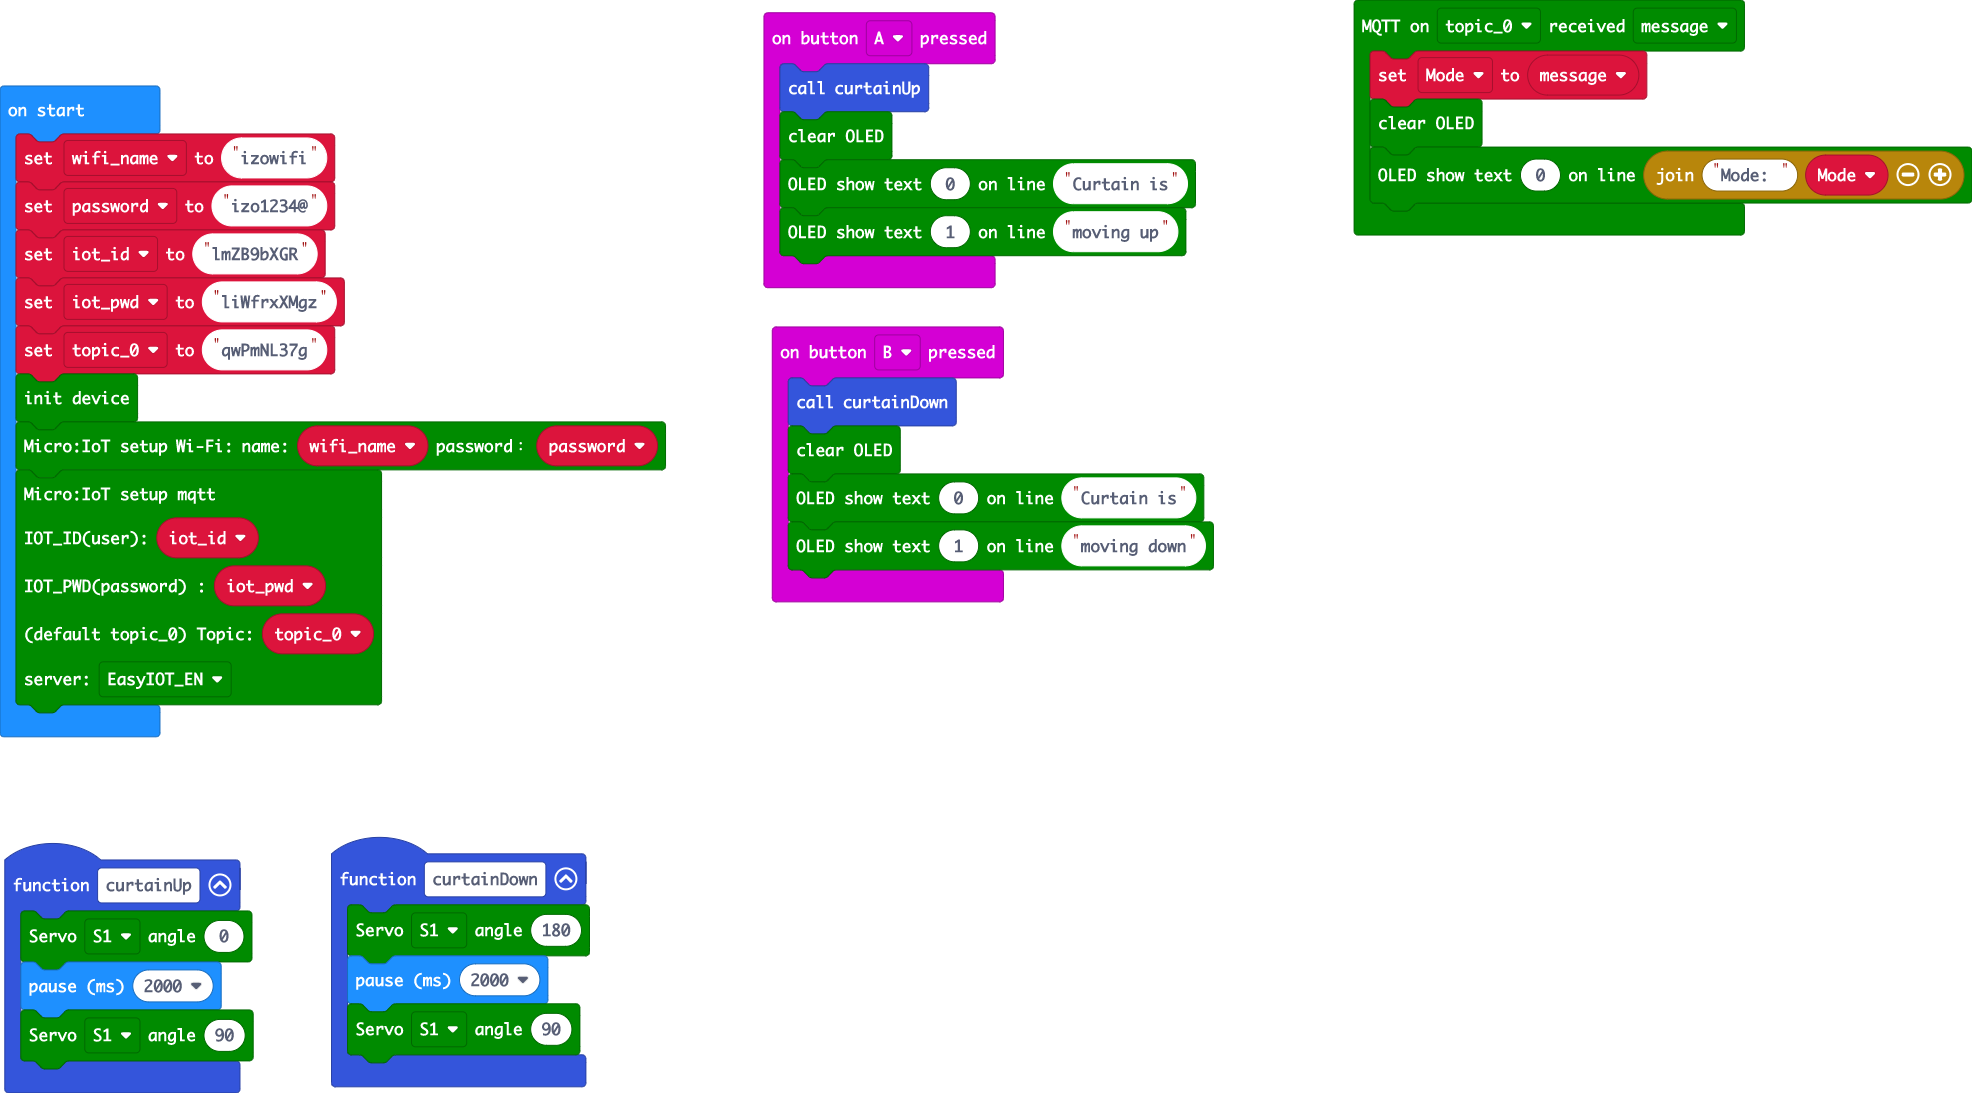
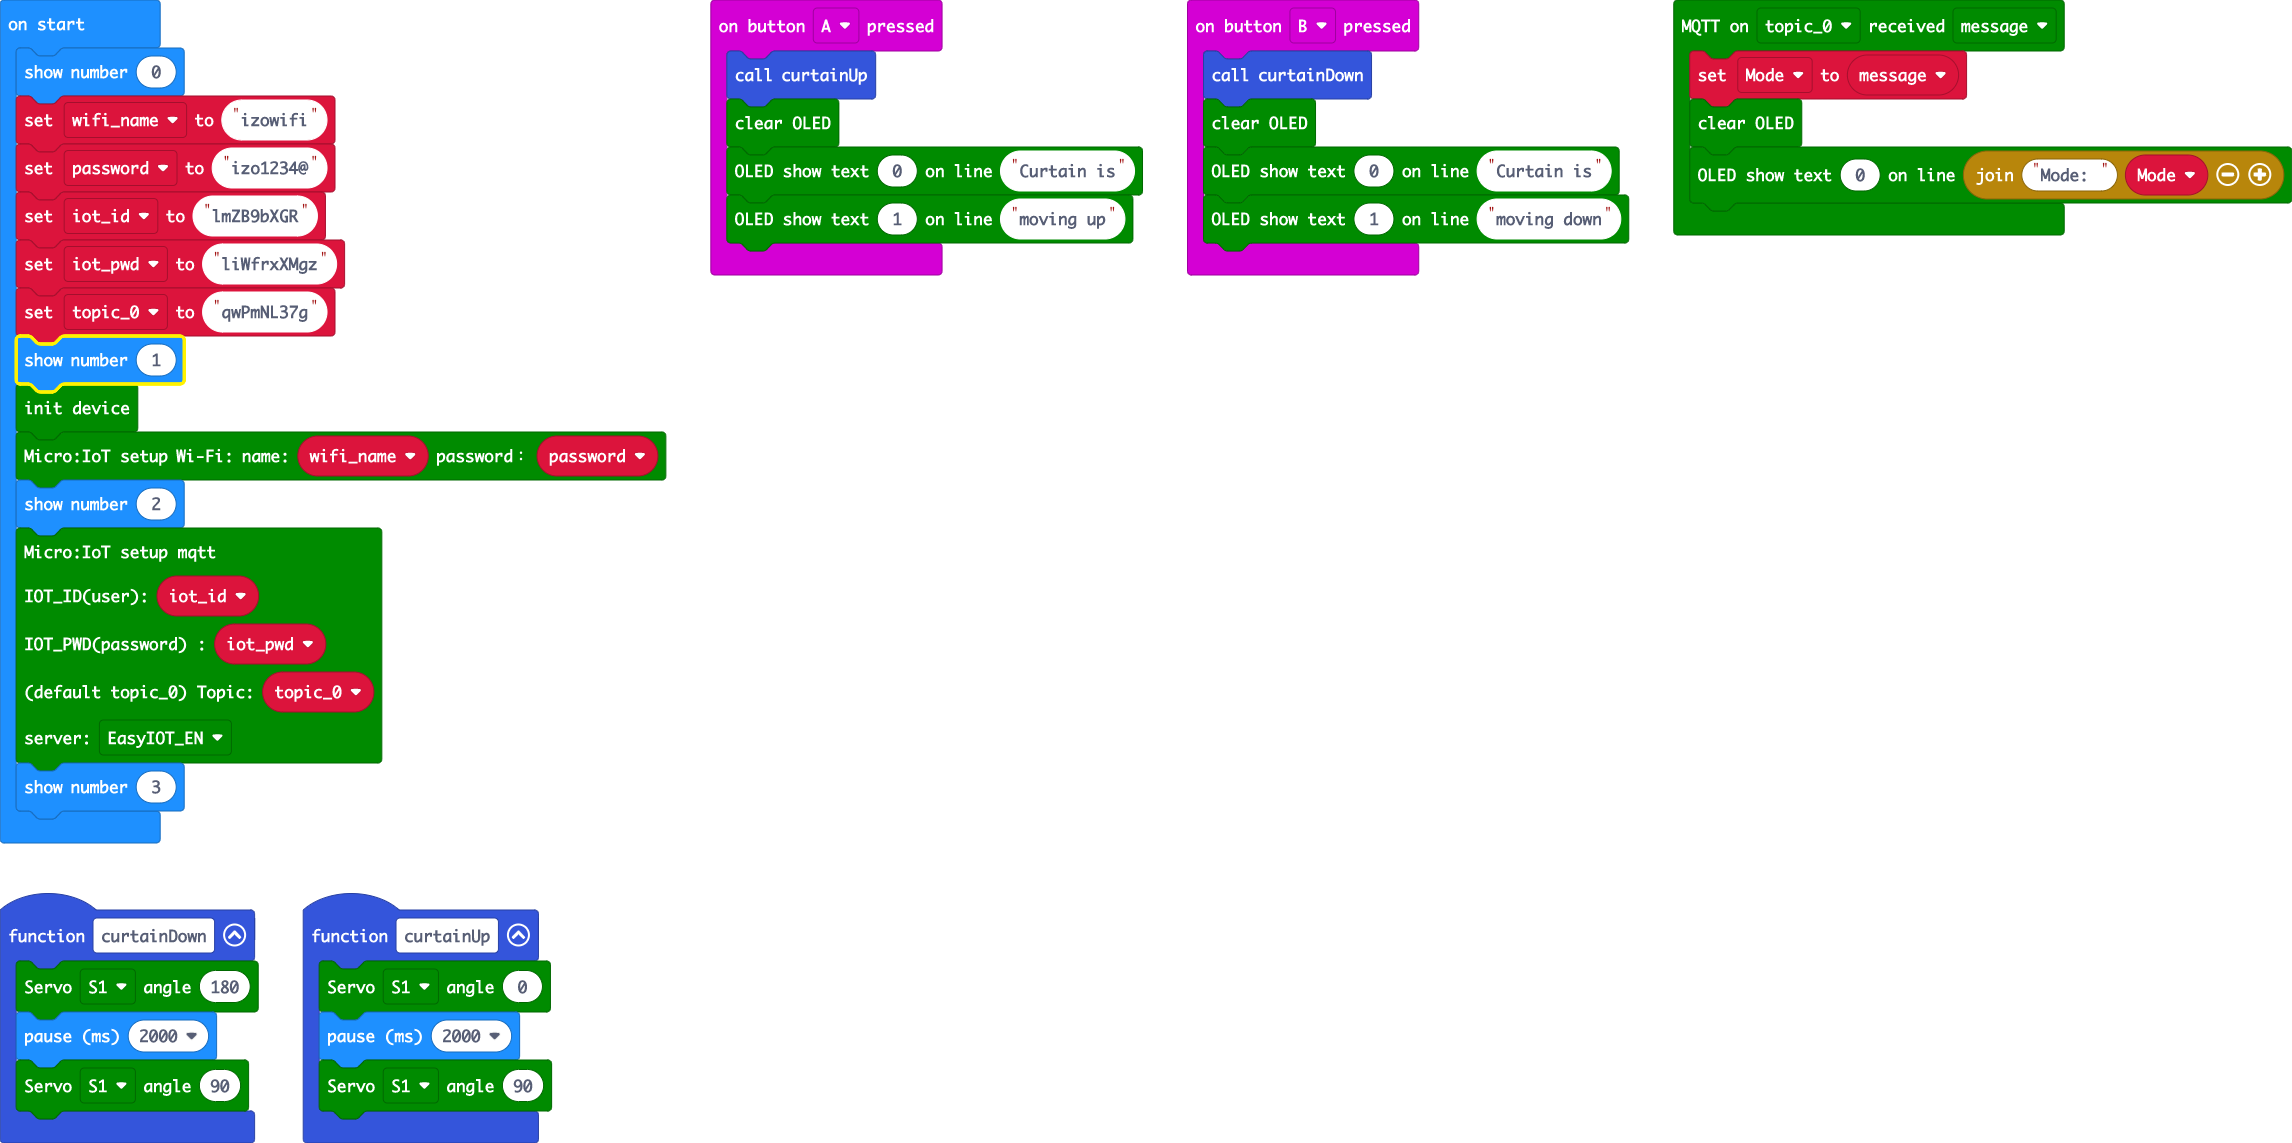
add debug

Changed region(s): [[0.0, 0.0, 0.3403, 1.0], [0.3093, 0.0, 1.0, 0.5599]]

diff --git a/main.ts b/main.ts
@@ -26,16 +26,20 @@ input.onButtonPressed(Button.B, function () {
     microIoT.microIoT_showUserText(1, "moving down")
 })
 let Mode = ""
+basic.showNumber(0)
 let wifi_name = "izowifi"
 let password = "izo1234@"
 let iot_id = "lmZB9bXGR"
 let iot_pwd = "liWfrxXMgz"
 let topic_0 = "qwPmNL37g"
+basic.showNumber(1)
 microIoT.microIoT_initDisplay()
 microIoT.microIoT_WIFI(wifi_name, password)
+basic.showNumber(2)
 microIoT.microIoT_MQTT(
 iot_id,
 iot_pwd,
 topic_0,
 microIoT.SERVERS.English
 )
+basic.showNumber(3)
